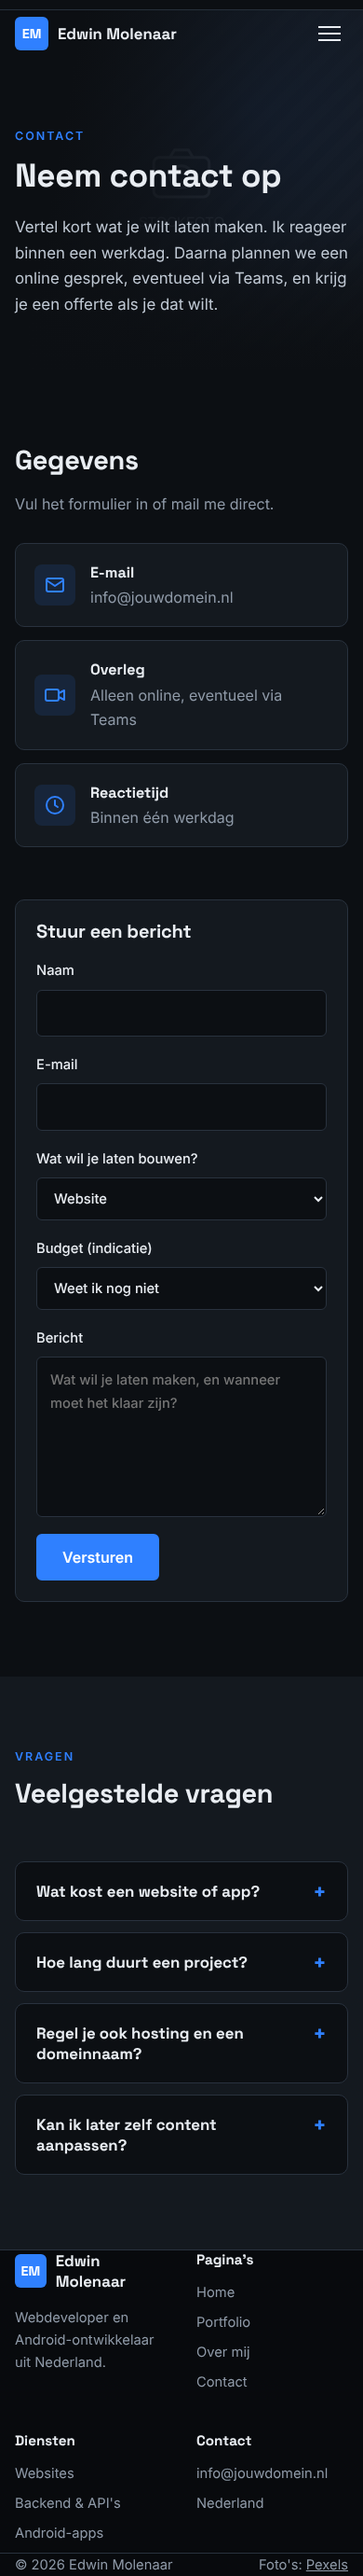
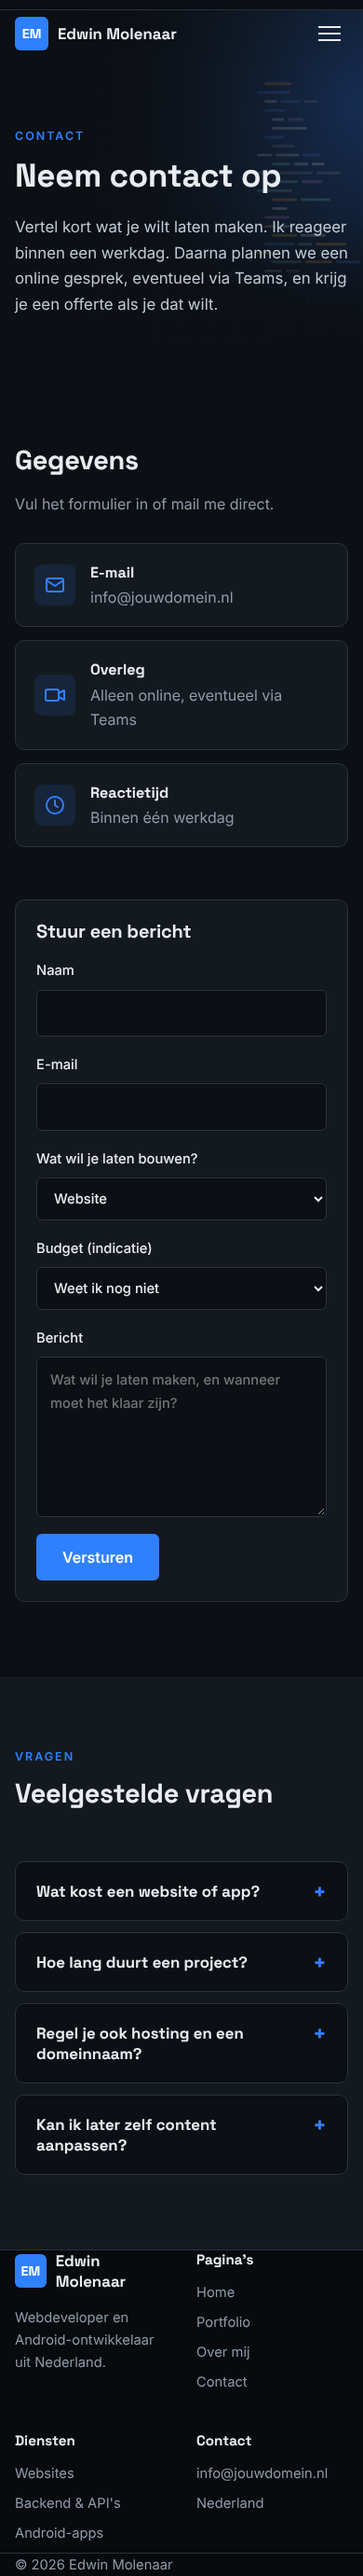
Replace stock photos with custom SVG illustrations
Add illustrations for the hero, services, process, projects and about
page in the site's own colours, served locally from img/. Show the hero
illustration next to the intro and fix the hero top padding on mobile.

Claude-Session: https://claude.ai/code/session_01BR2aM2KyyCs7b3zr3d6H45

Changed region(s): [[0.7385, 0.0, 1.0, 0.0934], [0.7385, 0.9967, 0.9538, 1.0]]

diff --git a/index.html b/index.html
@@ -30,8 +30,9 @@
 
   <main>
     <section class="hero">
-      <img class="hero-bg" src="https://images.pexels.com/photos/6424590/pexels-photo-6424590.jpeg?auto=compress&cs=tinysrgb&w=1920" alt="" aria-hidden="true">
-      <div class="container hero-content">
+      <img class="hero-bg" src="img/achtergrond.svg" alt="" aria-hidden="true">
+      <div class="container hero-content hero-grid">
+        <div>
         <p class="status"><span class="dot"></span>Beschikbaar voor nieuwe projecten</p>
         <p class="eyebrow">Webdeveloper &amp; Android-ontwikkelaar</p>
         <h1>Ik maak websites, backends en <span class="accent">Android-apps.</span></h1>
@@ -45,6 +46,8 @@
           <li>Vaste prijs per project</li>
           <li>Overleg online, eventueel via Teams</li>
         </ul>
+        </div>
+        <img class="hero-art" src="img/hero-devices.svg" alt="Illustratie van code, een app met meldingen en een geslaagde build">
       </div>
     </section>
 
@@ -57,7 +60,7 @@
         </div>
         <div class="services">
           <article class="service">
-            <div class="service-img"><img src="https://images.pexels.com/photos/3888151/pexels-photo-3888151.jpeg?auto=compress&cs=tinysrgb&w=900" alt="Werkplek met laptop en code" loading="lazy"></div>
+            <div class="service-img"><img src="img/dienst-websites.svg" alt="Illustratie van een website op laptop en telefoon" loading="lazy"></div>
             <div class="service-body">
               <div class="icon"><svg viewBox="0 0 24 24"><rect x="3" y="4" width="18" height="13" rx="2"/><path d="M8 21h8M12 17v4"/></svg></div>
               <h3>Websites</h3>
@@ -70,7 +73,7 @@
             </div>
           </article>
           <article class="service">
-            <div class="service-img"><img src="https://images.pexels.com/photos/5480781/pexels-photo-5480781.jpeg?auto=compress&cs=tinysrgb&w=900" alt="Serverruimte met netwerkapparatuur" loading="lazy"></div>
+            <div class="service-img"><img src="img/dienst-backend.svg" alt="Schema van een API met database en koppelingen" loading="lazy"></div>
             <div class="service-body">
               <div class="icon"><svg viewBox="0 0 24 24"><rect x="3" y="3" width="18" height="7" rx="1.5"/><rect x="3" y="14" width="18" height="7" rx="1.5"/><path d="M7 6.5h.01M7 17.5h.01"/></svg></div>
               <h3>Backend &amp; API's</h3>
@@ -83,7 +86,7 @@
             </div>
           </article>
           <article class="service">
-            <div class="service-img"><img src="https://images.pexels.com/photos/5054354/pexels-photo-5054354.jpeg?auto=compress&cs=tinysrgb&w=900" alt="Smartphone met een app in de hand" loading="lazy"></div>
+            <div class="service-img"><img src="img/dienst-android.svg" alt="Illustratie van een Android-app" loading="lazy"></div>
             <div class="service-body">
               <div class="icon"><svg viewBox="0 0 24 24"><rect x="6" y="2" width="12" height="20" rx="2.5"/><path d="M11 18h2"/></svg></div>
               <h3>Android-apps</h3>
@@ -116,7 +119,7 @@
         </div>
         <div class="projects projects-duo">
           <article class="project" data-cat="android">
-            <img src="https://images.pexels.com/photos/9956762/pexels-photo-9956762.jpeg?auto=compress&cs=tinysrgb&w=900" alt="" loading="lazy">
+            <img src="img/project-edgeflow.svg" alt="" loading="lazy">
             <div class="project-body">
               <span class="tag">Android · Meldingen</span>
               <h3>Edgeflow</h3>
@@ -124,7 +127,7 @@
             </div>
           </article>
           <article class="project" data-cat="android">
-            <img src="https://images.pexels.com/photos/4114787/pexels-photo-4114787.jpeg?auto=compress&cs=tinysrgb&w=900" alt="" loading="lazy">
+            <img src="img/project-wendaro.svg" alt="" loading="lazy">
             <div class="project-body">
               <span class="tag">App · Platform</span>
               <h3>Wendaro Connect</h3>
@@ -138,7 +141,7 @@
     <section class="section section-light" id="werkwijze">
       <div class="container split">
         <div class="split-media">
-          <img src="https://images.pexels.com/photos/4226122/pexels-photo-4226122.jpeg?auto=compress&cs=tinysrgb&w=1100" alt="Videogesprek op een laptop" loading="lazy">
+          <img src="img/werkwijze.svg" alt="Illustratie van een online overleg" loading="lazy">
         </div>
         <div>
           <p class="eyebrow">Werkwijze</p>
@@ -234,7 +237,6 @@
     </div>
     <div class="container footer-bottom">
       <span>&copy; <span id="year"></span> Edwin Molenaar</span>
-      <span>Foto's: <a href="https://www.pexels.com" rel="noopener">Pexels</a></span>
     </div>
   </footer>
 

diff --git a/style.css b/style.css
@@ -93,13 +93,16 @@ p { margin: 0 0 1em; }
   display: flex; align-items: center; overflow: hidden;
   background: radial-gradient(ellipse at 70% 30%, var(--hero-glow), var(--bg) 70%);
 }
-.hero-bg { position: absolute; inset: 0; width: 100%; height: 100%; object-fit: cover; opacity: .32; filter: grayscale(.4); }
+.hero-bg { position: absolute; inset: 0; width: 100%; height: 100%; object-fit: cover; opacity: .9; }
+.hero-grid { display: grid; grid-template-columns: 1.05fr .95fr; gap: 48px; align-items: center; }
+.hero-art { width: 100%; max-width: 600px; justify-self: end; }
 .hero::after {
   content: ""; position: absolute; inset: 0;
   background: linear-gradient(100deg, var(--bg) 25%, rgba(var(--bg-rgb), .6) 60%, rgba(var(--bg-rgb), .2)),
               linear-gradient(0deg, var(--bg), transparent 30%);
 }
-.hero-content { position: relative; z-index: 1; padding-top: 110px; padding-bottom: 70px; }
+.hero-content { position: relative; z-index: 1; }
+.hero .hero-content { padding-top: 110px; padding-bottom: 70px; }
 .hero h1 { font-size: clamp(2.5rem, 7vw, 4.8rem); max-width: 14ch; font-weight: 700; }
 .lead { font-size: clamp(1.05rem, 2vw, 1.25rem); color: var(--soft-text); max-width: 56ch; margin-bottom: 2rem; }
 .hero-actions { display: flex; flex-wrap: wrap; gap: 14px; }
@@ -117,7 +120,7 @@ p { margin: 0 0 1em; }
 }
 .service:hover { transform: translateY(-4px); border-color: var(--accent); }
 .service-img { aspect-ratio: 16 / 9; background: var(--surface-2); overflow: hidden; }
-.service-img img { width: 100%; height: 100%; object-fit: cover; filter: grayscale(.25) contrast(1.05); transition: transform .5s; }
+.service-img img { width: 100%; height: 100%; object-fit: cover; transition: transform .5s; }
 .service:hover .service-img img { transform: scale(1.05); }
 .service-body { position: relative; padding: 40px 28px 30px; }
 .service-body > p { color: var(--muted); }
@@ -178,7 +181,7 @@ p { margin: 0 0 1em; }
   position: relative; border-radius: var(--radius); overflow: hidden; min-height: 420px;
   background: var(--surface-2); display: flex; align-items: flex-end;
 }
-.project img { position: absolute; inset: 0; width: 100%; height: 100%; object-fit: cover; transition: transform .6s; }
+.project img { position: absolute; inset: 0; width: 100%; height: 100%; object-fit: cover; object-position: center 30%; transition: transform .6s; }
 .project::after { content: ""; position: absolute; inset: 0; background: linear-gradient(0deg, rgba(var(--bg-rgb), .97) 15%, rgba(var(--bg-rgb), .35) 65%, rgba(var(--bg-rgb), .1)); }
 .project:hover img { transform: scale(1.06); }
 .project-body { position: relative; z-index: 1; padding: 28px; }
@@ -335,6 +338,8 @@ p { margin: 0 0 1em; }
 /* Responsive */
 @media (max-width: 960px) {
   .services, .projects { grid-template-columns: 1fr; max-width: 560px; }
+  .hero-grid { grid-template-columns: 1fr; gap: 40px; }
+  .hero-art { justify-self: start; max-width: 520px; }
   .values { grid-template-columns: repeat(2, 1fr); }
   .plans { grid-template-columns: 1fr; max-width: 560px; gap: 32px; }
   .case { grid-template-columns: 1fr; gap: 28px; }

diff --git a/portfolio.html b/portfolio.html
@@ -30,7 +30,7 @@
 
   <main>
     <section class="page-hero">
-      <img class="hero-bg" src="https://images.pexels.com/photos/546819/pexels-photo-546819.jpeg?auto=compress&cs=tinysrgb&w=1920" alt="" aria-hidden="true">
+      <img class="hero-bg" src="img/achtergrond.svg" alt="" aria-hidden="true">
       <div class="container hero-content">
         <p class="eyebrow">Portfolio</p>
         <h1>Projecten</h1>
@@ -42,7 +42,7 @@
       <div class="container">
         <div class="cases">
         <article class="case">
-          <div class="case-media"><img src="https://images.pexels.com/photos/9956762/pexels-photo-9956762.jpeg?auto=compress&cs=tinysrgb&w=1200" alt="" loading="lazy"></div>
+          <div class="case-media"><img src="img/project-edgeflow.svg" alt="" loading="lazy"></div>
           <div class="case-body">
             <span class="tag">Android · Meldingen</span>
             <h2>Edgeflow</h2>
@@ -51,7 +51,7 @@
           </div>
         </article>
         <article class="case case-flip">
-          <div class="case-media"><img src="https://images.pexels.com/photos/4114787/pexels-photo-4114787.jpeg?auto=compress&cs=tinysrgb&w=1200" alt="" loading="lazy"></div>
+          <div class="case-media"><img src="img/project-wendaro.svg" alt="" loading="lazy"></div>
           <div class="case-body">
             <span class="tag">App · Platform</span>
             <h2>Wendaro Connect</h2>
@@ -101,7 +101,6 @@
     </div>
     <div class="container footer-bottom">
       <span>&copy; <span id="year"></span> Edwin Molenaar</span>
-      <span>Foto's: <a href="https://www.pexels.com" rel="noopener">Pexels</a></span>
     </div>
   </footer>
 

diff --git a/over-mij.html b/over-mij.html
@@ -30,7 +30,7 @@
 
   <main>
     <section class="page-hero">
-      <img class="hero-bg" src="https://images.pexels.com/photos/177598/pexels-photo-177598.jpeg?auto=compress&cs=tinysrgb&w=1920" alt="" aria-hidden="true">
+      <img class="hero-bg" src="img/achtergrond.svg" alt="" aria-hidden="true">
       <div class="container hero-content">
         <p class="eyebrow">Edwin Molenaar</p>
         <h1>Over mij</h1>
@@ -41,7 +41,7 @@
     <section class="section">
       <div class="container split">
         <div class="split-media">
-          <img src="https://images.pexels.com/photos/9553905/pexels-photo-9553905.jpeg?auto=compress&cs=tinysrgb&w=1100" alt="Developer aan het werk achter twee schermen" loading="lazy">
+          <img src="img/over-mij.svg" alt="Illustratie van een werkplek met code op het scherm" loading="lazy">
         </div>
         <div>
           <p class="eyebrow">Wie ik ben</p>
@@ -138,7 +138,6 @@
     </div>
     <div class="container footer-bottom">
       <span>&copy; <span id="year"></span> Edwin Molenaar</span>
-      <span>Foto's: <a href="https://www.pexels.com" rel="noopener">Pexels</a></span>
     </div>
   </footer>
 

diff --git a/contact.html b/contact.html
@@ -30,7 +30,7 @@
 
   <main>
     <section class="page-hero">
-      <img class="hero-bg" src="https://images.pexels.com/photos/7776422/pexels-photo-7776422.jpeg?auto=compress&cs=tinysrgb&w=1920" alt="" aria-hidden="true">
+      <img class="hero-bg" src="img/achtergrond.svg" alt="" aria-hidden="true">
       <div class="container hero-content">
         <p class="eyebrow">Contact</p>
         <h1>Neem contact op</h1>
@@ -132,7 +132,6 @@
     </div>
     <div class="container footer-bottom">
       <span>&copy; <span id="year"></span> Edwin Molenaar</span>
-      <span>Foto's: <a href="https://www.pexels.com" rel="noopener">Pexels</a></span>
     </div>
   </footer>
 

diff --git a/README.md b/README.md
@@ -23,8 +23,8 @@ python3 -m http.server 8000
 ## Aanpassen
 
 - Vervang `info@jouwdomein.nl` in de HTML-bestanden en in `script.js`.
-- Foto's komen van [Pexels](https://www.pexels.com) (gratis te gebruiken, ook zakelijk).
-- Screenshots staan in `screenshots/` (foto's daarin zijn placeholders).
+- Afbeeldingen zijn eigen SVG-illustraties in de map `img/`.
+- Screenshots staan in `screenshots/`.
 
 ## Online zetten (GitHub Pages)
 
